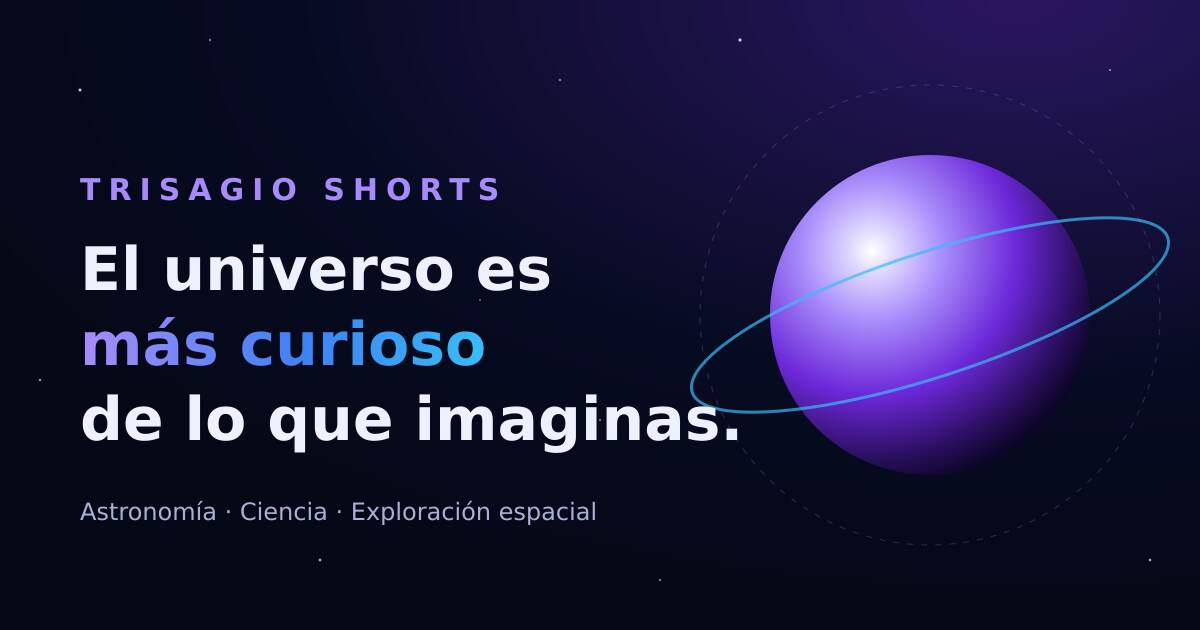
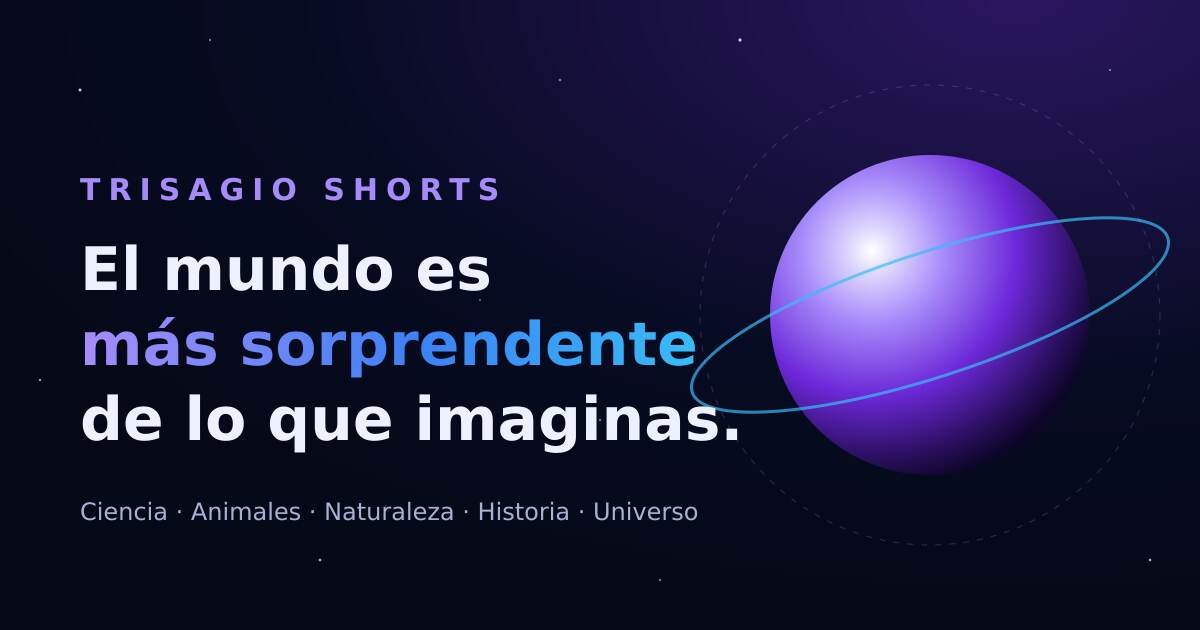
Ampliar posicionamiento: marca de curiosidades generales
- Nuevo eslogan y descripción general (SEO y Open Graph)
- Sección Contenido con 6 categorías generales
- Pie de página, contacto y textos de marca actualizados
- Imagen Open Graph con el nuevo eslogan
- Diseño sin cambios; páginas legales siguen en revisión

Changed region(s): [[0.185, 0.5127, 0.5858, 0.6032], [0.0617, 0.7841, 0.5858, 0.8444], [0.1542, 0.3921, 0.4625, 0.4825]]

diff --git a/index.html b/index.html
@@ -3,24 +3,24 @@
 <head>
   <meta charset="utf-8">
   <meta name="viewport" content="width=device-width, initial-scale=1">
-  <title>Trisagio Shorts — El universo es más curioso de lo que imaginas</title>
-  <meta name="description" content="Trisagio Shorts: divulgación de astronomía, planetas, exploración espacial y curiosidades científicas en videos cortos para YouTube, TikTok e Instagram.">
+  <title>Trisagio Shorts — El mundo es más sorprendente de lo que imaginas</title>
+  <meta name="description" content="Descubre curiosidades increíbles sobre animales, ciencia, naturaleza, tecnología, historia, el universo y mucho más. Conocimientos sorprendentes en videos cortos que despiertan tu curiosidad.">
   <link rel="canonical" href="https://trisagioshorts.github.io/">
   <meta name="theme-color" content="#050816">
   <meta name="color-scheme" content="dark">
   <meta property="og:type" content="website">
   <meta property="og:site_name" content="Trisagio Shorts">
   <meta property="og:locale" content="es_LA">
-  <meta property="og:title" content="Trisagio Shorts — El universo es más curioso de lo que imaginas">
-  <meta property="og:description" content="Trisagio Shorts: divulgación de astronomía, planetas, exploración espacial y curiosidades científicas en videos cortos para YouTube, TikTok e Instagram.">
+  <meta property="og:title" content="Trisagio Shorts — El mundo es más sorprendente de lo que imaginas">
+  <meta property="og:description" content="Descubre curiosidades increíbles sobre animales, ciencia, naturaleza, tecnología, historia, el universo y mucho más. Conocimientos sorprendentes en videos cortos que despiertan tu curiosidad.">
   <meta property="og:url" content="https://trisagioshorts.github.io/">
   <meta property="og:image" content="https://trisagioshorts.github.io/og-image.jpg">
   <meta property="og:image:width" content="1200">
   <meta property="og:image:height" content="630">
-  <meta property="og:image:alt" content="Trisagio Shorts — El universo es más curioso de lo que imaginas">
+  <meta property="og:image:alt" content="Trisagio Shorts — El mundo es más sorprendente de lo que imaginas.">
   <meta name="twitter:card" content="summary_large_image">
-  <meta name="twitter:title" content="Trisagio Shorts — El universo es más curioso de lo que imaginas">
-  <meta name="twitter:description" content="Trisagio Shorts: divulgación de astronomía, planetas, exploración espacial y curiosidades científicas en videos cortos para YouTube, TikTok e Instagram.">
+  <meta name="twitter:title" content="Trisagio Shorts — El mundo es más sorprendente de lo que imaginas">
+  <meta name="twitter:description" content="Descubre curiosidades increíbles sobre animales, ciencia, naturaleza, tecnología, historia, el universo y mucho más. Conocimientos sorprendentes en videos cortos que despiertan tu curiosidad.">
   <meta name="twitter:image" content="https://trisagioshorts.github.io/og-image.jpg">
   <link rel="icon" href="favicon.svg" type="image/svg+xml">
   <link rel="icon" href="favicon-32.png" sizes="32x32" type="image/png">
@@ -48,9 +48,9 @@
   <section class="hero">
     <div class="container hero-grid">
       <div>
-        <span class="eyebrow">Divulgación científica en formato corto</span>
-        <h1>El universo es <span class="grad">más curioso</span> de lo que imaginas.</h1>
-        <p class="lead">Exploramos los misterios del espacio, los planetas y la ciencia en videos cortos pensados para despertar tu curiosidad en menos de un minuto.</p>
+        <span class="eyebrow">Curiosidades en formato corto</span>
+        <h1>El mundo es <span class="grad">más sorprendente</span> de lo que imaginas.</h1>
+        <p class="lead">Descubre curiosidades increíbles sobre animales, ciencia, naturaleza, tecnología, historia, el universo y mucho más. Conocimientos sorprendentes en videos cortos que despiertan tu curiosidad.</p>
         <div class="hero-actions">
           <a class="btn btn-primary" href="https://www.youtube.com/@trisagioshorts" rel="noopener" target="_blank"><svg viewBox="0 0 24 24" fill="none" stroke="currentColor" stroke-width="1.8" stroke-linejoin="round" aria-hidden="true"><rect x="2.5" y="5" width="19" height="14" rx="4"/><path d="m10 9 5 3-5 3z" fill="currentColor"/></svg> Ver en YouTube</a>
           <a class="btn btn-ghost" href="#contenido">Qué encontrarás</a>
@@ -70,10 +70,10 @@
       <div>
         <span class="kicker">Sobre nosotros</span>
         <h2 id="marca-t" class="sr-only">Sobre Trisagio Shorts</h2>
-        <p class="quote">Contamos la ciencia del cosmos con rigor, claridad y asombro, en el formato que la gente ya usa a diario.</p>
+        <p class="quote">Contamos lo sorprendente del mundo con rigor, claridad y asombro, en el formato que la gente ya usa a diario.</p>
       </div>
       <div>
-        <p><strong>Trisagio Shorts</strong> es un proyecto de contenido educativo dedicado a la astronomía, la ciencia del espacio y las curiosidades del universo. Publicamos videos cortos en YouTube, TikTok e Instagram para que cualquier persona pueda acercarse a ideas grandes sin necesidad de conocimientos previos.</p>
+        <p><strong>Trisagio Shorts</strong> es un proyecto de videos cortos sobre curiosidades fascinantes, descubrimientos y conocimientos sorprendentes. Publicamos videos cortos en YouTube, TikTok e Instagram para que cualquier persona pueda acercarse a ideas grandes sin necesidad de conocimientos previos.</p>
         <p>Nuestro objetivo es sencillo: que cada video termine con una pregunta nueva en la cabeza de quien lo ve.</p>
       </div>
     </div>
@@ -83,24 +83,39 @@
     <div class="container">
       <div class="section-head reveal">
         <span class="kicker">Qué encontrarás aquí</span>
-        <h2 id="contenido-t">Tres puertas de entrada al cosmos</h2>
-        <p>Cada serie aborda un ángulo distinto del universo, siempre en formato breve y visual.</p>
+        <h2 id="contenido-t">Un mundo lleno de curiosidades</h2>
+        <p>Estas son algunas de las áreas que forman parte de Trisagio Shorts, siempre en formato breve y visual.</p>
       </div>
       <div class="cards">
         <article class="card reveal">
-          <div class="icon-badge"><svg viewBox="0 0 24 24" fill="none" stroke="currentColor" stroke-width="1.8" stroke-linecap="round" aria-hidden="true"><circle cx="12" cy="12" r="5"/><path d="M3.5 15.5c-1.3 1.6-1.7 2.9-1.1 3.5 1.3 1.3 7-1.9 12.6-7.4S23.7 3.1 22.4 1.8c-.6-.6-1.9-.2-3.5 1.1"/></svg></div>
-          <h3>Astronomía y planetas</h3>
-          <p>El sistema solar, exoplanetas, estrellas, galaxias y los fenómenos que podemos observar en el cielo nocturno.</p>
-        </article>
-        <article class="card reveal">
           <div class="icon-badge"><svg viewBox="0 0 24 24" fill="none" stroke="currentColor" stroke-width="1.8" aria-hidden="true"><circle cx="12" cy="12" r="1.6" fill="currentColor"/><ellipse cx="12" cy="12" rx="10" ry="4"/><ellipse cx="12" cy="12" rx="10" ry="4" transform="rotate(60 12 12)"/><ellipse cx="12" cy="12" rx="10" ry="4" transform="rotate(120 12 12)"/></svg></div>
-          <h3>Curiosidades científicas</h3>
-          <p>Preguntas sorprendentes de la física y la ciencia explicadas de forma clara, breve y fácil de recordar.</p>
+          <h3>Ciencia y tecnología</h3>
+          <p>Descubrimientos, inventos y preguntas sorprendentes explicados de forma clara, breve y fácil de recordar.</p>
         </article>
         <article class="card reveal">
-          <div class="icon-badge"><svg viewBox="0 0 24 24" fill="none" stroke="currentColor" stroke-width="1.8" stroke-linecap="round" stroke-linejoin="round" aria-hidden="true"><path d="M5 15c-1.5 1.3-2 5-2 5s3.7-.5 5-2c.7-.8.7-2.1-.1-2.9a2.1 2.1 0 0 0-2.9-.1z"/><path d="M12 15l-3-3a22 22 0 0 1 2-4A12.9 12.9 0 0 1 22 2c0 2.7-.8 7.5-6 11a22.4 22.4 0 0 1-4 2z"/><path d="M9 12H4s.6-3 2-4c1.6-1.1 5 0 5 0M12 15v5s3-.6 4-2c1.1-1.6 0-5 0-5"/></svg></div>
-          <h3>Exploración espacial</h3>
-          <p>Misiones, telescopios, sondas y la historia de cómo la humanidad ha aprendido a mirar y viajar más allá de la Tierra.</p>
+          <div class="icon-badge"><svg viewBox="0 0 24 24" fill="none" stroke="currentColor" stroke-width="1.8" stroke-linecap="round" stroke-linejoin="round" aria-hidden="true"><path d="M11 20A7 7 0 0 1 9.8 6.1C15.5 5 17 4.5 19 2c1 2 2 4.2 2 8 0 5.5-4.8 10-10 10z"/><path d="M2 21c0-3 1.9-5.4 5.1-6C9.5 14.5 12 13 13 12"/></svg></div>
+          <h3>Animales y naturaleza</h3>
+          <p>Especies asombrosas, comportamientos inesperados y los rincones más curiosos del mundo natural.</p>
+        </article>
+        <article class="card reveal">
+          <div class="icon-badge"><svg viewBox="0 0 24 24" fill="none" stroke="currentColor" stroke-width="1.8" stroke-linecap="round" stroke-linejoin="round" aria-hidden="true"><path d="M19 14c1.5-1.5 3-3.2 3-5.5A5.5 5.5 0 0 0 16.5 3c-1.8 0-3 .5-4.5 2-1.5-1.5-2.7-2-4.5-2A5.5 5.5 0 0 0 2 8.5c0 2.3 1.5 4 3 5.5l7 7z"/><path d="M3.2 12.3h4.3l1.5-3 3 6 1.5-3h7.3"/></svg></div>
+          <h3>Cuerpo humano</h3>
+          <p>Lo que ocurre dentro de nosotros cada día y en lo que casi nunca nos detenemos a pensar.</p>
+        </article>
+        <article class="card reveal">
+          <div class="icon-badge"><svg viewBox="0 0 24 24" fill="none" stroke="currentColor" stroke-width="1.8" stroke-linecap="round" stroke-linejoin="round" aria-hidden="true"><path d="M3 22h18M6 18v-7M10 18v-7M14 18v-7M18 18v-7M12 2l8 5H4z"/></svg></div>
+          <h3>Historia</h3>
+          <p>Hechos, personajes y episodios del pasado que parecen increíbles, pero ocurrieron de verdad.</p>
+        </article>
+        <article class="card reveal">
+          <div class="icon-badge"><svg viewBox="0 0 24 24" fill="none" stroke="currentColor" stroke-width="1.8" stroke-linecap="round" aria-hidden="true"><circle cx="12" cy="12" r="5"/><path d="M3.5 15.5c-1.3 1.6-1.7 2.9-1.1 3.5 1.3 1.3 7-1.9 12.6-7.4S23.7 3.1 22.4 1.8c-.6-.6-1.9-.2-3.5 1.1"/></svg></div>
+          <h3>Universo y astronomía</h3>
+          <p>Planetas, estrellas, galaxias y misiones espaciales: los grandes misterios del cosmos.</p>
+        </article>
+        <article class="card reveal">
+          <div class="icon-badge"><svg viewBox="0 0 24 24" fill="none" stroke="currentColor" stroke-width="1.8" stroke-linecap="round" stroke-linejoin="round" aria-hidden="true"><path d="M13 2 3 14h9l-1 8 10-12h-9l1-8z"/></svg></div>
+          <h3>Fenómenos extraordinarios</h3>
+          <p>Sucesos poco comunes de nuestro planeta, contados con datos y explicados con claridad.</p>
         </article>
       </div>
     </div>
@@ -125,11 +140,11 @@
     <div class="container">
       <div class="section-head reveal">
         <span class="kicker">Cómo producimos</span>
-        <h2 id="produccion-t">Ciencia, diseño y automatización</h2>
+        <h2 id="produccion-t">Investigación, diseño y automatización</h2>
         <p>Combinamos investigación, animación programática con Remotion y herramientas de inteligencia artificial para producir contenido de forma constante.</p>
       </div>
       <ol class="steps reveal">
-        <li><h3>Investigación</h3><p>Elegimos un tema y lo contrastamos con fuentes de divulgación y documentación científica.</p></li>
+        <li><h3>Investigación</h3><p>Elegimos un tema y lo contrastamos con fuentes confiables de divulgación y documentación especializada.</p></li>
         <li><h3>Guion</h3><p>Redactamos un guion breve y claro. Usamos IA como apoyo y revisamos el resultado antes de producir.</p></li>
         <li><h3>Animación</h3><p>Componemos el video con Remotion, un sistema que genera animaciones a partir de código.</p></li>
         <li><h3>Publicación</h3><p>Preparamos y publicamos los videos en nuestras propias cuentas oficiales.</p></li>
@@ -144,7 +159,7 @@
     <div class="container">
       <div class="cta reveal">
         <span class="kicker">Contacto</span>
-        <h2 id="contacto-t">¿Tienes una pregunta sobre el universo?</h2>
+        <h2 id="contacto-t">¿Tienes una curiosidad que quieras ver explicada?</h2>
         <p>Escríbenos para sugerencias de temas, colaboraciones o cualquier consulta sobre el proyecto.</p>
         <a class="btn btn-primary" href="mailto:trisagiomedia@gmail.com?subject=Contacto%20desde%20el%20sitio%20web%20de%20Trisagio%20Shorts"><svg viewBox="0 0 24 24" fill="none" stroke="currentColor" stroke-width="2" stroke-linecap="round" stroke-linejoin="round" aria-hidden="true"><rect x="3" y="5" width="18" height="14" rx="2"/><path d="m3 7 9 6 9-6"/></svg> Escríbenos</a>
         <p class="email-line">trisagiomedia@gmail.com</p>
@@ -157,7 +172,7 @@
     <div class="footer-grid">
       <div>
         <a class="brand" href="index.html"><img src="logo.svg" alt="" width="36" height="36"><span>TRISAGIO <b>SHORTS</b></span></a>
-        <p>Divulgación de astronomía y ciencia en videos cortos. El universo es más curioso de lo que imaginas.</p>
+        <p>Curiosidades fascinantes en videos cortos. El mundo es más sorprendente de lo que imaginas.</p>
       </div>
       <nav aria-label="Redes sociales">
         <h2>Síguenos</h2>

diff --git a/404.html b/404.html
@@ -16,7 +16,7 @@
   <meta property="og:image" content="https://trisagioshorts.github.io/og-image.jpg">
   <meta property="og:image:width" content="1200">
   <meta property="og:image:height" content="630">
-  <meta property="og:image:alt" content="Trisagio Shorts — El universo es más curioso de lo que imaginas">
+  <meta property="og:image:alt" content="Trisagio Shorts — El mundo es más sorprendente de lo que imaginas.">
   <meta name="twitter:card" content="summary_large_image">
   <meta name="twitter:title" content="Página no encontrada — Trisagio Shorts">
   <meta name="twitter:description" content="La página que buscas no existe o cambió de dirección.">
@@ -49,7 +49,7 @@
     <div class="footer-grid">
       <div>
         <a class="brand" href="https://trisagioshorts.github.io/index.html"><img src="https://trisagioshorts.github.io/logo.svg" alt="" width="36" height="36"><span>TRISAGIO <b>SHORTS</b></span></a>
-        <p>Divulgación de astronomía y ciencia en videos cortos. El universo es más curioso de lo que imaginas.</p>
+        <p>Curiosidades fascinantes en videos cortos. El mundo es más sorprendente de lo que imaginas.</p>
       </div>
       <nav aria-label="Redes sociales">
         <h2>Síguenos</h2>

diff --git a/privacidad.html b/privacidad.html
@@ -18,7 +18,7 @@
   <meta property="og:image" content="https://trisagioshorts.github.io/og-image.jpg">
   <meta property="og:image:width" content="1200">
   <meta property="og:image:height" content="630">
-  <meta property="og:image:alt" content="Trisagio Shorts — El universo es más curioso de lo que imaginas">
+  <meta property="og:image:alt" content="Trisagio Shorts — El mundo es más sorprendente de lo que imaginas.">
   <meta name="twitter:card" content="summary_large_image">
   <meta name="twitter:title" content="Política de privacidad — Trisagio Shorts">
   <meta name="twitter:description" content="Política de privacidad de Trisagio Shorts y de la aplicación Trisagio Shorts Automation. Documento en revisión.">
@@ -61,7 +61,7 @@
     <div class="footer-grid">
       <div>
         <a class="brand" href="index.html"><img src="logo.svg" alt="" width="36" height="36"><span>TRISAGIO <b>SHORTS</b></span></a>
-        <p>Divulgación de astronomía y ciencia en videos cortos. El universo es más curioso de lo que imaginas.</p>
+        <p>Curiosidades fascinantes en videos cortos. El mundo es más sorprendente de lo que imaginas.</p>
       </div>
       <nav aria-label="Redes sociales">
         <h2>Síguenos</h2>

diff --git a/contacto.html b/contacto.html
@@ -17,7 +17,7 @@
   <meta property="og:image" content="https://trisagioshorts.github.io/og-image.jpg">
   <meta property="og:image:width" content="1200">
   <meta property="og:image:height" content="630">
-  <meta property="og:image:alt" content="Trisagio Shorts — El universo es más curioso de lo que imaginas">
+  <meta property="og:image:alt" content="Trisagio Shorts — El mundo es más sorprendente de lo que imaginas.">
   <meta name="twitter:card" content="summary_large_image">
   <meta name="twitter:title" content="Contacto — Trisagio Shorts">
   <meta name="twitter:description" content="Comunícate con Trisagio Shorts por correo electrónico o a través de nuestras redes oficiales en YouTube, TikTok e Instagram.">
@@ -75,7 +75,7 @@
     <div class="footer-grid">
       <div>
         <a class="brand" href="index.html"><img src="logo.svg" alt="" width="36" height="36"><span>TRISAGIO <b>SHORTS</b></span></a>
-        <p>Divulgación de astronomía y ciencia en videos cortos. El universo es más curioso de lo que imaginas.</p>
+        <p>Curiosidades fascinantes en videos cortos. El mundo es más sorprendente de lo que imaginas.</p>
       </div>
       <nav aria-label="Redes sociales">
         <h2>Síguenos</h2>

diff --git a/terminos.html b/terminos.html
@@ -18,7 +18,7 @@
   <meta property="og:image" content="https://trisagioshorts.github.io/og-image.jpg">
   <meta property="og:image:width" content="1200">
   <meta property="og:image:height" content="630">
-  <meta property="og:image:alt" content="Trisagio Shorts — El universo es más curioso de lo que imaginas">
+  <meta property="og:image:alt" content="Trisagio Shorts — El mundo es más sorprendente de lo que imaginas.">
   <meta name="twitter:card" content="summary_large_image">
   <meta name="twitter:title" content="Condiciones del servicio — Trisagio Shorts">
   <meta name="twitter:description" content="Condiciones de uso del sitio web y de los contenidos de Trisagio Shorts. Documento en revisión.">
@@ -61,7 +61,7 @@
     <div class="footer-grid">
       <div>
         <a class="brand" href="index.html"><img src="logo.svg" alt="" width="36" height="36"><span>TRISAGIO <b>SHORTS</b></span></a>
-        <p>Divulgación de astronomía y ciencia en videos cortos. El universo es más curioso de lo que imaginas.</p>
+        <p>Curiosidades fascinantes en videos cortos. El mundo es más sorprendente de lo que imaginas.</p>
       </div>
       <nav aria-label="Redes sociales">
         <h2>Síguenos</h2>
